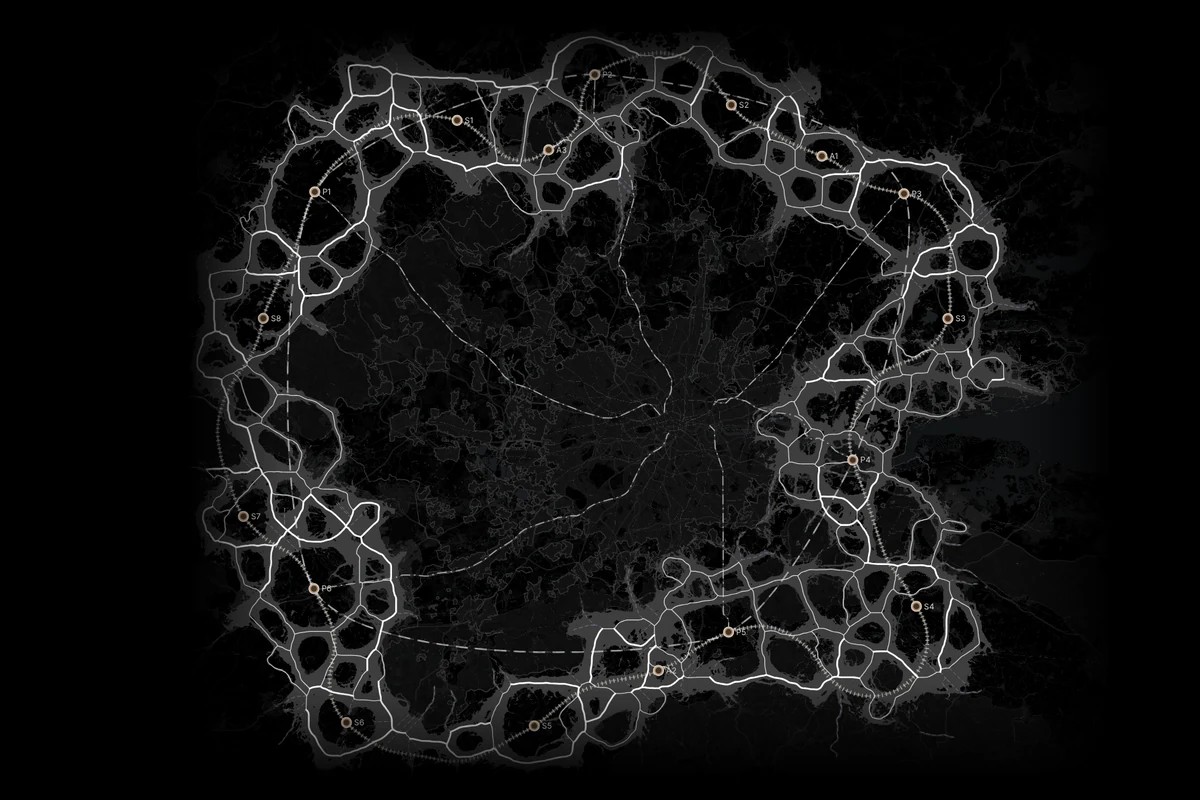
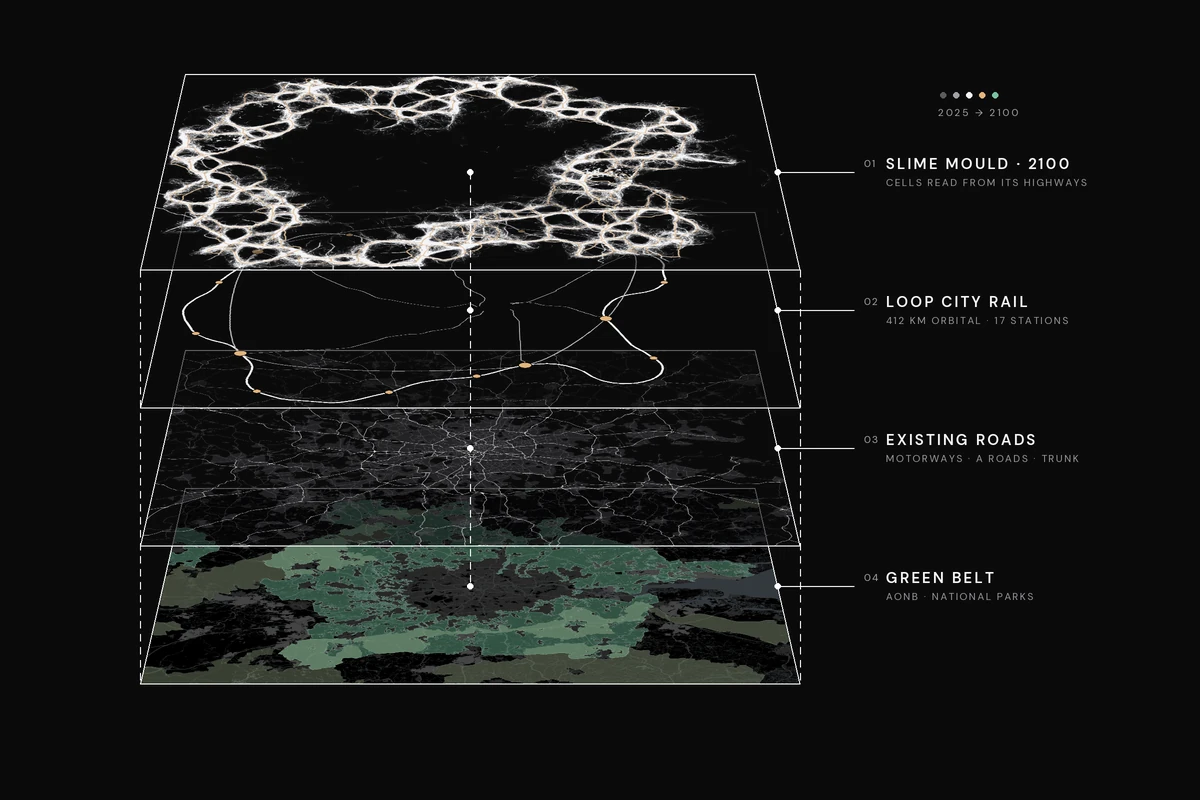
Loop City step 1: an introduction in the catalogue and a layered cover, as the London map's
catalogue.json gets the four-part detail (research position, data layers, growth and
cells, on to the next step), so the card has its (i): shown after a pause on a computer,
as pages on a phone. The cover is four layers of the page's own data lifted apart: the
mould in 2100 with its cells (the published run), the railway and stations, the existing
roads, the Green Belt and protected land (tools/build-cover.py).

Claude-Session: https://claude.ai/code/session_01PLqW2VwjVpPMMmL7L9iThW

Changed region(s): [[0.0925, 0.0625, 0.8942, 0.9688], [0.8017, 0.0938, 0.8325, 0.125]]

diff --git a/incubator/loop-city-mould-growth/tools/build-cover.py b/incubator/loop-city-mould-growth/tools/build-cover.py
@@ -1,0 +1,169 @@
+"""Loop City step 1 · the catalogue cover (24 Nov 2026): four layers of the page's own data, lifted apart as on the
+London map's cover (assets/catalogue/london-map.webp), each labelled on the right.
+
+  01 the slime mould in 2100 and the cells read from it   (the published run: modules/01-loop-city/result/)
+  02 the Loop City railway: orbital, high-speed loop, radials, 17 stations   (the same result's base)
+  03 the existing roads the mould reads: motorways, A roads, trunk routes     (img/roads_national, roads_regional)
+  04 the land it must keep: Green Belt, AONB, national parks                  (img/greenbelt, aonb, nationalparks)
+
+All four share the page's frame (CFG.map.extentBNG), so they stand exactly over each other.
+
+    python3 incubator/loop-city-mould-growth/tools/build-cover.py      # writes assets/catalogue/loop-city-mould-growth.webp
+
+Needs numpy, Pillow and OpenCV; fonts DM Sans (Linux path below)."""
+import json, os
+import numpy as np, cv2
+from PIL import Image, ImageDraw, ImageFont, ImageFilter
+
+HERE = os.path.dirname(os.path.abspath(__file__))
+APP = os.path.join(HERE, '..')
+ROOT = os.path.join(APP, '..', '..')
+RES = os.path.join(ROOT, 'modules', '01-loop-city', 'result')
+OUT = os.path.join(ROOT, 'assets', 'catalogue', 'loop-city-mould-growth.webp')
+FONT = '/usr/share/fonts/truetype/google-fonts/ofl/dmsans/DMSans[opsz,wght].ttf'
+
+K = 2                                   # drawn at twice the size, then halved
+CW, CH = 1200 * K, 800 * K              # the cover
+LW = 1400                               # one layer, in its own flat frame
+LH = round(LW * 3514 / 4286)
+WARM = (227, 180, 123)                  # the page's growth tone (palette C), for the stations
+GREEN = (120, 196, 160)
+
+R = json.load(open(os.path.join(RES, 'result.json')))
+F = R['frame']
+def px(e, n): return ((e - F['e0']) / (F['e1'] - F['e0']) * LW, (F['n1'] - n) / (F['n1'] - F['n0']) * LH)
+
+def mask(name, thresh=10):
+    a = np.asarray(Image.open(os.path.join(APP, 'img', name)).convert('RGBA').resize((LW, LH), Image.LANCZOS))
+    return a[..., 3].astype(np.float32) / 255 * (a[..., 3] > thresh)
+
+def tint(m, rgb, op):
+    out = np.zeros((LH, LW, 4), np.float32)
+    out[..., :3] = rgb; out[..., 3] = np.clip(m * op, 0, 1) * 255
+    return out
+
+def over(dst, src):                     # straight-alpha "over", float arrays 0..255
+    sa = src[..., 3:4] / 255; da = dst[..., 3:4] / 255
+    oa = sa + da * (1 - sa)
+    rgb = (src[..., :3] * sa + dst[..., :3] * da * (1 - sa)) / np.maximum(oa, 1e-6)
+    return np.concatenate([rgb, oa * 255], -1)
+
+def plate(op=0.9, rgb=(10, 10, 12)):
+    p = np.zeros((LH, LW, 4), np.float32); p[..., :3] = rgb; p[..., 3] = 255 * op; return p
+
+def lines(features, draw_fn):
+    img = Image.new('RGBA', (LW, LH), (0, 0, 0, 0)); d = ImageDraw.Draw(img)
+    for f in features: draw_fn(d, f)
+    return np.asarray(img).astype(np.float32)
+
+def coords(g):
+    if g['type'] == 'LineString': return [g['coordinates']]
+    if g['type'] == 'MultiLineString': return g['coordinates']
+    if g['type'] == 'Polygon': return g['coordinates']
+    if g['type'] == 'MultiPolygon': return [r for p in g['coordinates'] for r in p]
+    return []
+
+# ---- 04 the land: the page's dark map with the loop taken out (the opening story's, img/intro/), the Green Belt
+#      and the protected landscapes
+L4 = np.asarray(Image.open(os.path.join(APP, 'img', 'intro', 'base.webp')).convert('RGBA').resize((LW, LH), Image.LANCZOS)).astype(np.float32)
+L4[..., :3] *= 0.9
+L4 = over(L4, tint(mask('greenbelt.webp'), GREEN, 0.42))
+L4 = over(L4, tint(mask('aonb.webp'), (176, 200, 150), 0.26))
+L4 = over(L4, tint(mask('nationalparks.webp'), (190, 210, 170), 0.3))
+
+# ---- 03 the existing roads
+L3 = plate(0.5)
+L3 = over(L3, tint(mask('urban.webp'), (60, 60, 64), 0.5))
+L3 = over(L3, tint(mask('roads_regional.webp', 4), (170, 170, 176), 0.9))
+L3 = over(L3, tint(mask('roads_national.webp', 4), (245, 245, 247), 1.0))
+
+# ---- 02 the railway and its stations
+L2 = plate(0.45)
+def rail(d, f):
+    kind = f['properties'].get('kind', '')
+    w = 5 if kind == 'orbital' else 3 if 'speed' in kind or kind == 'loop' else 2
+    col = (245, 245, 247, 255) if kind == 'orbital' else (200, 200, 206, 230)
+    for line in coords(f['geometry']):
+        pts = [px(*c[:2]) for c in line]
+        if len(pts) > 1: d.line(pts, fill=col, width=w, joint='curve')
+L2 = over(L2, lines(R['base']['rails']['features'], rail))
+def station(d, f):
+    x, y = px(*f['geometry']['coordinates'][:2]); r = 15 if f['properties'].get('kind') == 'primary' else 10
+    d.ellipse([x - r, y - r, x + r, y + r], fill=WARM + (255,), outline=(0, 0, 0, 255), width=2)
+L2 = over(L2, lines(R['base']['stations']['features'], station))
+
+# ---- 01 the mould in 2100 and the cells read from it
+m = np.asarray(Image.open(os.path.join(RES, 'mould-2100.webp')).convert('L').resize((LW, LH), Image.LANCZOS)).astype(np.float32) / 255
+L1 = plate(0.5)
+L1 = over(L1, tint(np.clip(m * 1.25, 0, 1), (245, 245, 247), 1.0))
+def cell(d, f):
+    for ring in coords(f['geometry']):
+        pts = [px(*c[:2]) for c in ring]
+        if len(pts) > 2: d.line(pts + [pts[0]], fill=WARM + (170,), width=3, joint='curve')
+L1 = over(L1, lines(R['vectors']['cells']['features'], cell))
+
+# ---- the stack: each layer seen from above and in front, lifted apart
+cx = 470 * K
+TW, BW, PH = 570 * K, 660 * K, 196 * K          # the plane's far edge, near edge, depth on the cover
+CY = [172 * K, 310 * K, 448 * K, 586 * K]       # 01 at the top
+def quad(cy):
+    return np.float32([[cx - TW / 2, cy - PH / 2], [cx + TW / 2, cy - PH / 2], [cx + BW / 2, cy + PH / 2], [cx - BW / 2, cy + PH / 2]])
+def warp(layer, q):
+    src = np.float32([[0, 0], [LW, 0], [LW, LH], [0, LH]])
+    M = cv2.getPerspectiveTransform(src, q)
+    rgba = layer.copy(); rgba[..., :3] *= rgba[..., 3:4] / 255         # premultiplied while it is resampled
+    w = cv2.warpPerspective(rgba, M, (CW, CH), flags=cv2.INTER_AREA, borderMode=cv2.BORDER_CONSTANT, borderValue=0)
+    a = w[..., 3:4]; w[..., :3] = np.where(a > 0, w[..., :3] / np.maximum(a, 1e-6) * 255, 0); return w
+
+canvas = np.zeros((CH, CW, 4), np.float32); canvas[..., :3] = 11; canvas[..., 3] = 255
+img = Image.fromarray(canvas.astype(np.uint8), 'RGBA')
+d = ImageDraw.Draw(img)
+def dashed(p0, p1, col, dash=7 * K, gap=6 * K, w=1):
+    (x0, y0), (x1, y1) = p0, p1; L = max(1, ((x1 - x0) ** 2 + (y1 - y0) ** 2) ** 0.5); t = 0
+    while t < L:
+        a, b = t / L, min(L, t + dash) / L
+        d.line([(x0 + (x1 - x0) * a, y0 + (y1 - y0) * a), (x0 + (x1 - x0) * b, y0 + (y1 - y0) * b)], fill=col, width=w); t += dash + gap
+for cy, layer in zip(reversed(CY), [L4, L3, L2, L1]):     # the lowest first
+    q = quad(cy)
+    w = warp(layer, q)
+    img = Image.alpha_composite(img, Image.fromarray(np.clip(w, 0, 255).astype(np.uint8), 'RGBA'))
+    d = ImageDraw.Draw(img)
+    d.polygon([tuple(p) for p in q], outline=(255, 255, 255, 120), width=K)
+# the threads that tie the layers: down the near corners and through the middle, with a dot on each plane
+qa, qb = quad(CY[0]), quad(CY[-1])
+for i in (3, 2):
+    dashed(tuple(qa[i]), tuple(qb[i]), (255, 255, 255, 70), w=K)
+for cy in CY: d.ellipse([cx - 3 * K, cy - 3 * K, cx + 3 * K, cy + 3 * K], fill=(255, 255, 255, 220))
+dashed((cx, CY[0]), (cx, CY[-1]), (255, 255, 255, 60), w=K)
+
+# ---- the labels, on the right, as on the map's cover
+def font(sz, wght):
+    f = ImageFont.truetype(FONT, sz * K)
+    try: f.set_variation_by_axes([14, wght])
+    except Exception: pass
+    return f
+def spaced(x, y, s, f, fill, track):
+    for ch in s:
+        d.text((x, y), ch, font=f, fill=fill); x += d.textlength(ch, font=f) + track
+    return x
+LX = 868 * K
+LABELS = [('01', 'SLIME MOULD · 2100', 'CELLS READ FROM ITS HIGHWAYS'),
+          ('02', 'LOOP CITY RAIL', '412 KM ORBITAL · 17 STATIONS'),
+          ('03', 'EXISTING ROADS', 'MOTORWAYS · A ROADS · TRUNK'),
+          ('04', 'GREEN BELT', 'AONB · NATIONAL PARKS')]
+for cy, (n, title, sub) in zip(CY, LABELS):
+    q = quad(cy); ex = (q[1][0] + q[2][0]) / 2
+    d.ellipse([ex - 3 * K, cy - 3 * K, ex + 3 * K, cy + 3 * K], fill=(255, 255, 255, 200))
+    d.line([(ex, cy), (LX - 14 * K, cy)], fill=(255, 255, 255, 110), width=K)
+    spaced(LX - 4 * K, cy - 15 * K, n, font(10, 400), (160, 160, 166, 255), 1 * K)
+    spaced(LX + 18 * K, cy - 18 * K, title, font(15, 600), (245, 245, 247, 255), 2.2 * K)
+    spaced(LX + 18 * K, cy + 4 * K, sub, font(10, 400), (150, 150, 156, 255), 1.6 * K)
+# the top right: what the page runs, as the map's cover names its themes
+x0 = 940 * K; y0 = 92 * K
+for i, c in enumerate([(90, 90, 96), (160, 160, 166), (245, 245, 247), WARM, GREEN]):
+    d.ellipse([x0 + i * 13 * K, y0, x0 + i * 13 * K + 6 * K, y0 + 6 * K], fill=c + (255,))
+spaced(x0 - 2 * K, y0 + 14 * K, '2025 → 2100', font(10, 400), (160, 160, 166, 255), 2 * K)
+
+out = img.convert('RGB').resize((CW // K, CH // K), Image.LANCZOS)
+out.save(OUT, 'WEBP', quality=90, method=6)
+print('wrote', os.path.relpath(OUT, ROOT), out.size, os.path.getsize(OUT) // 1024, 'KB')
